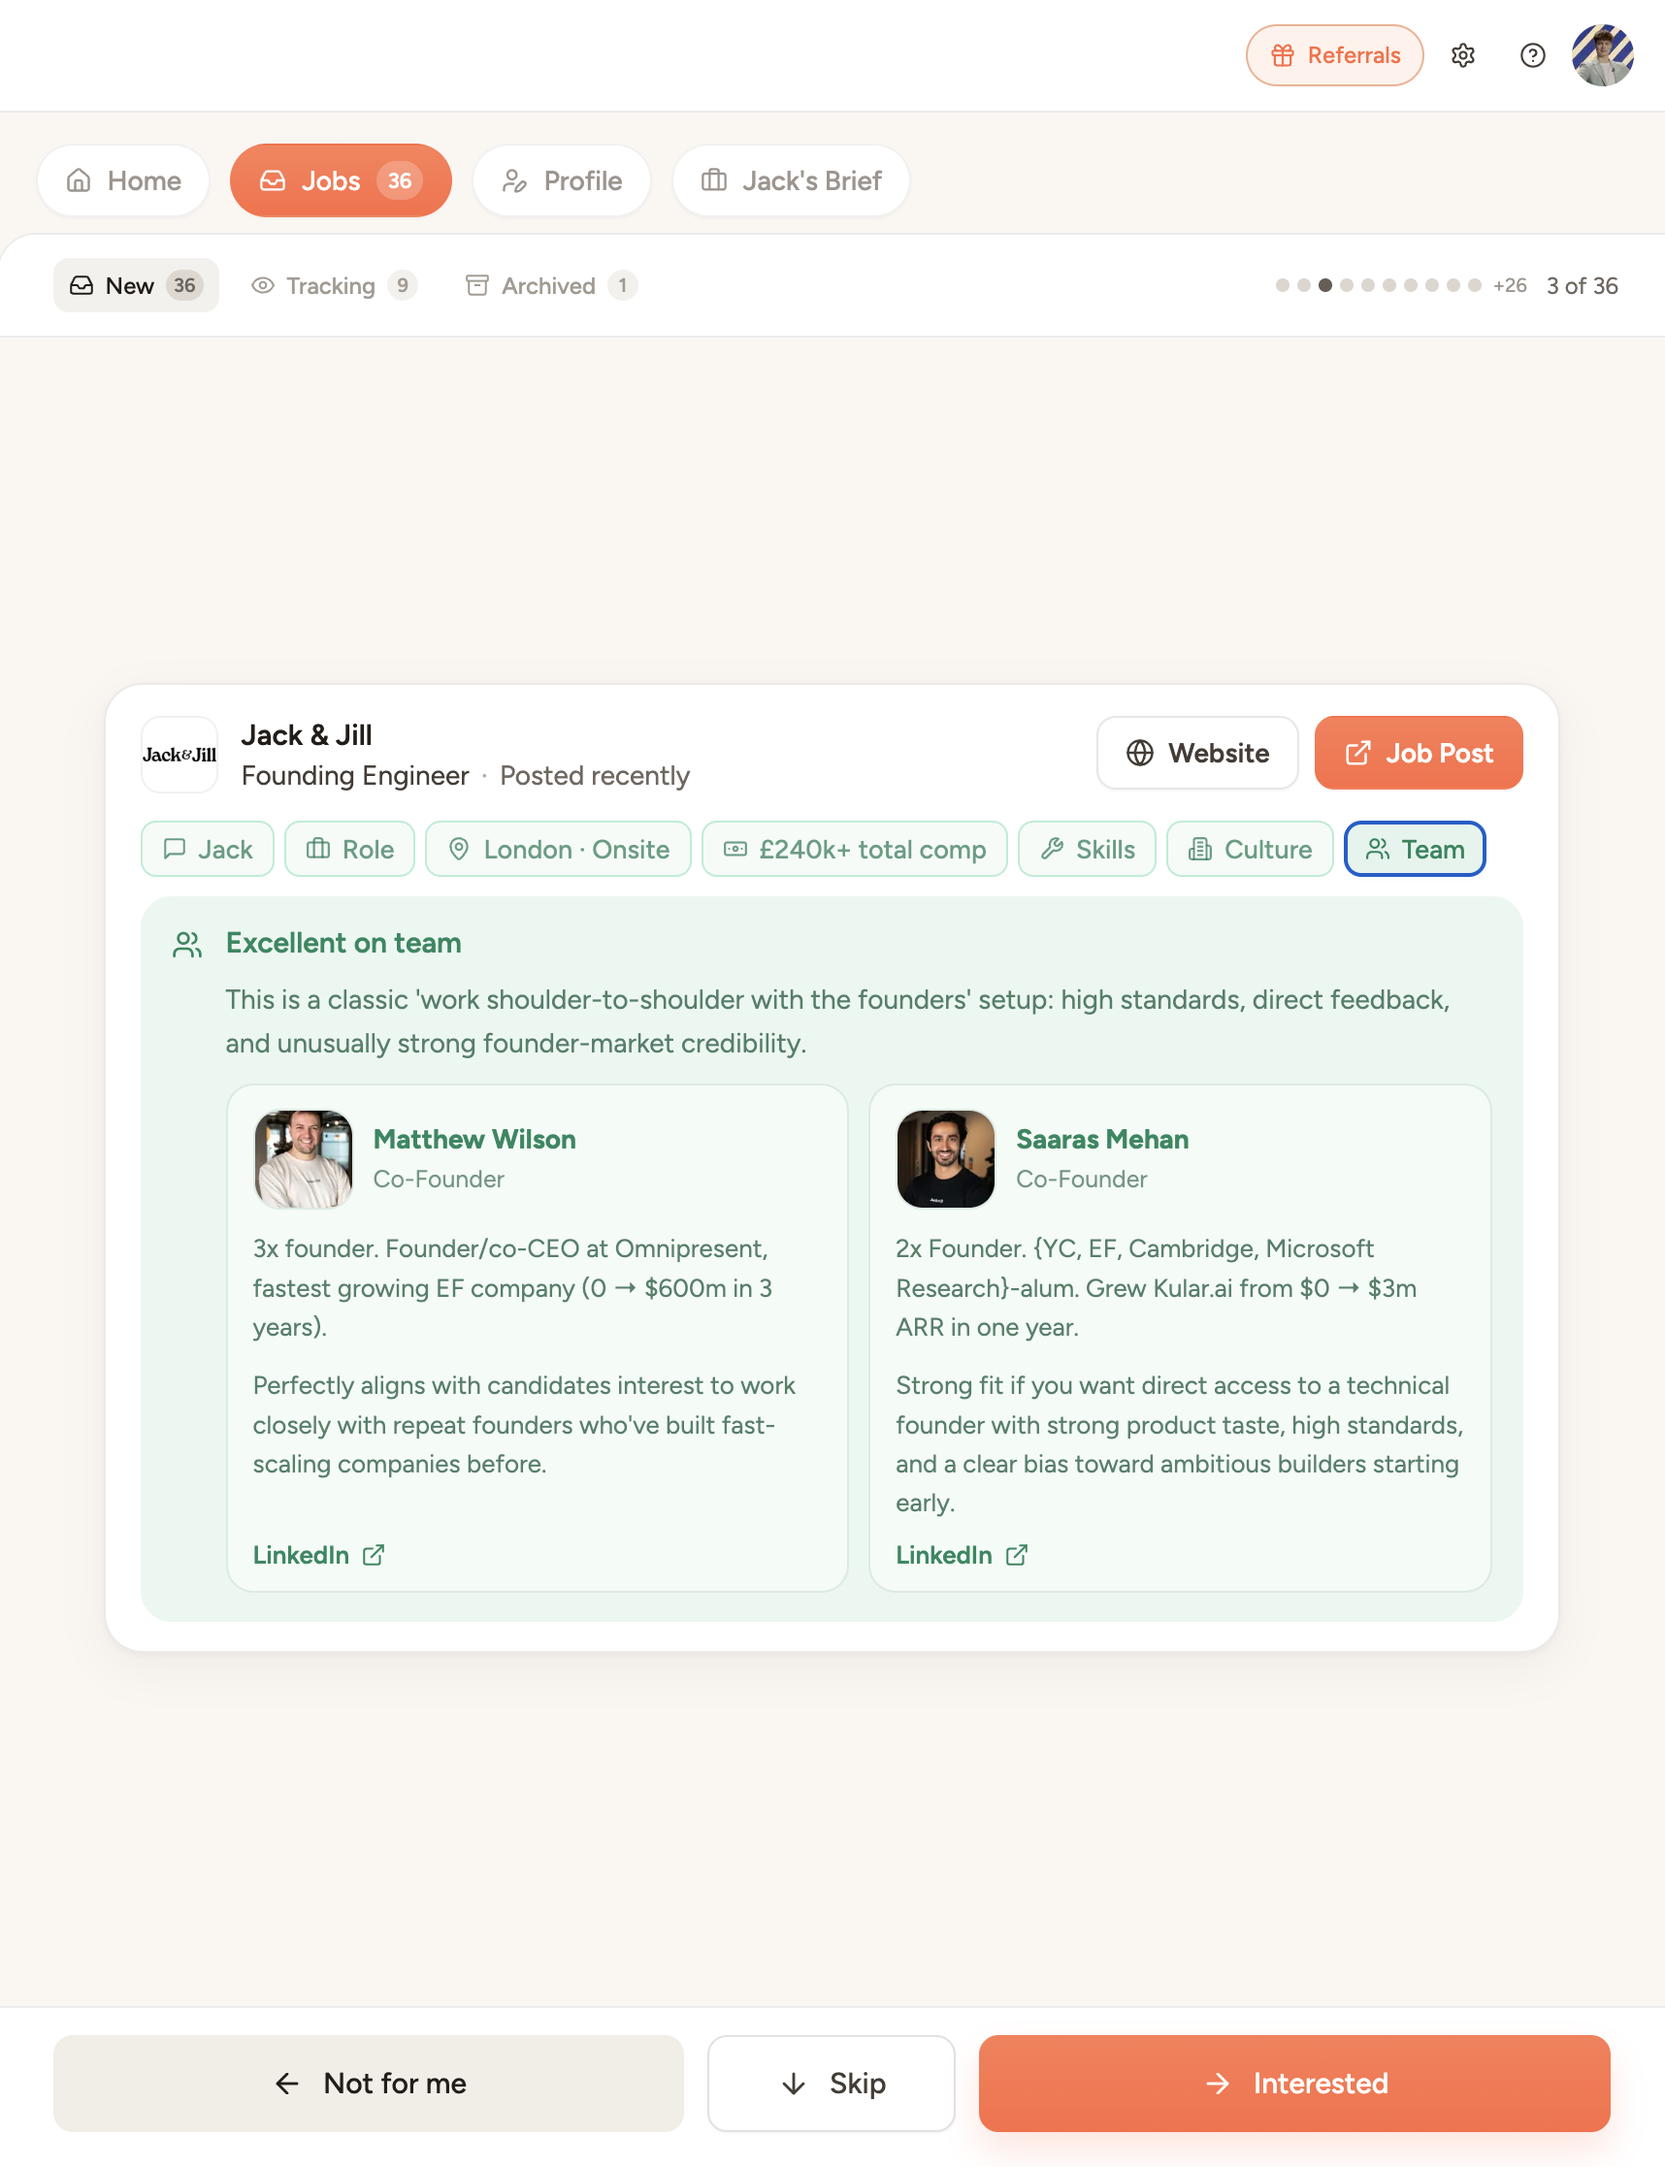
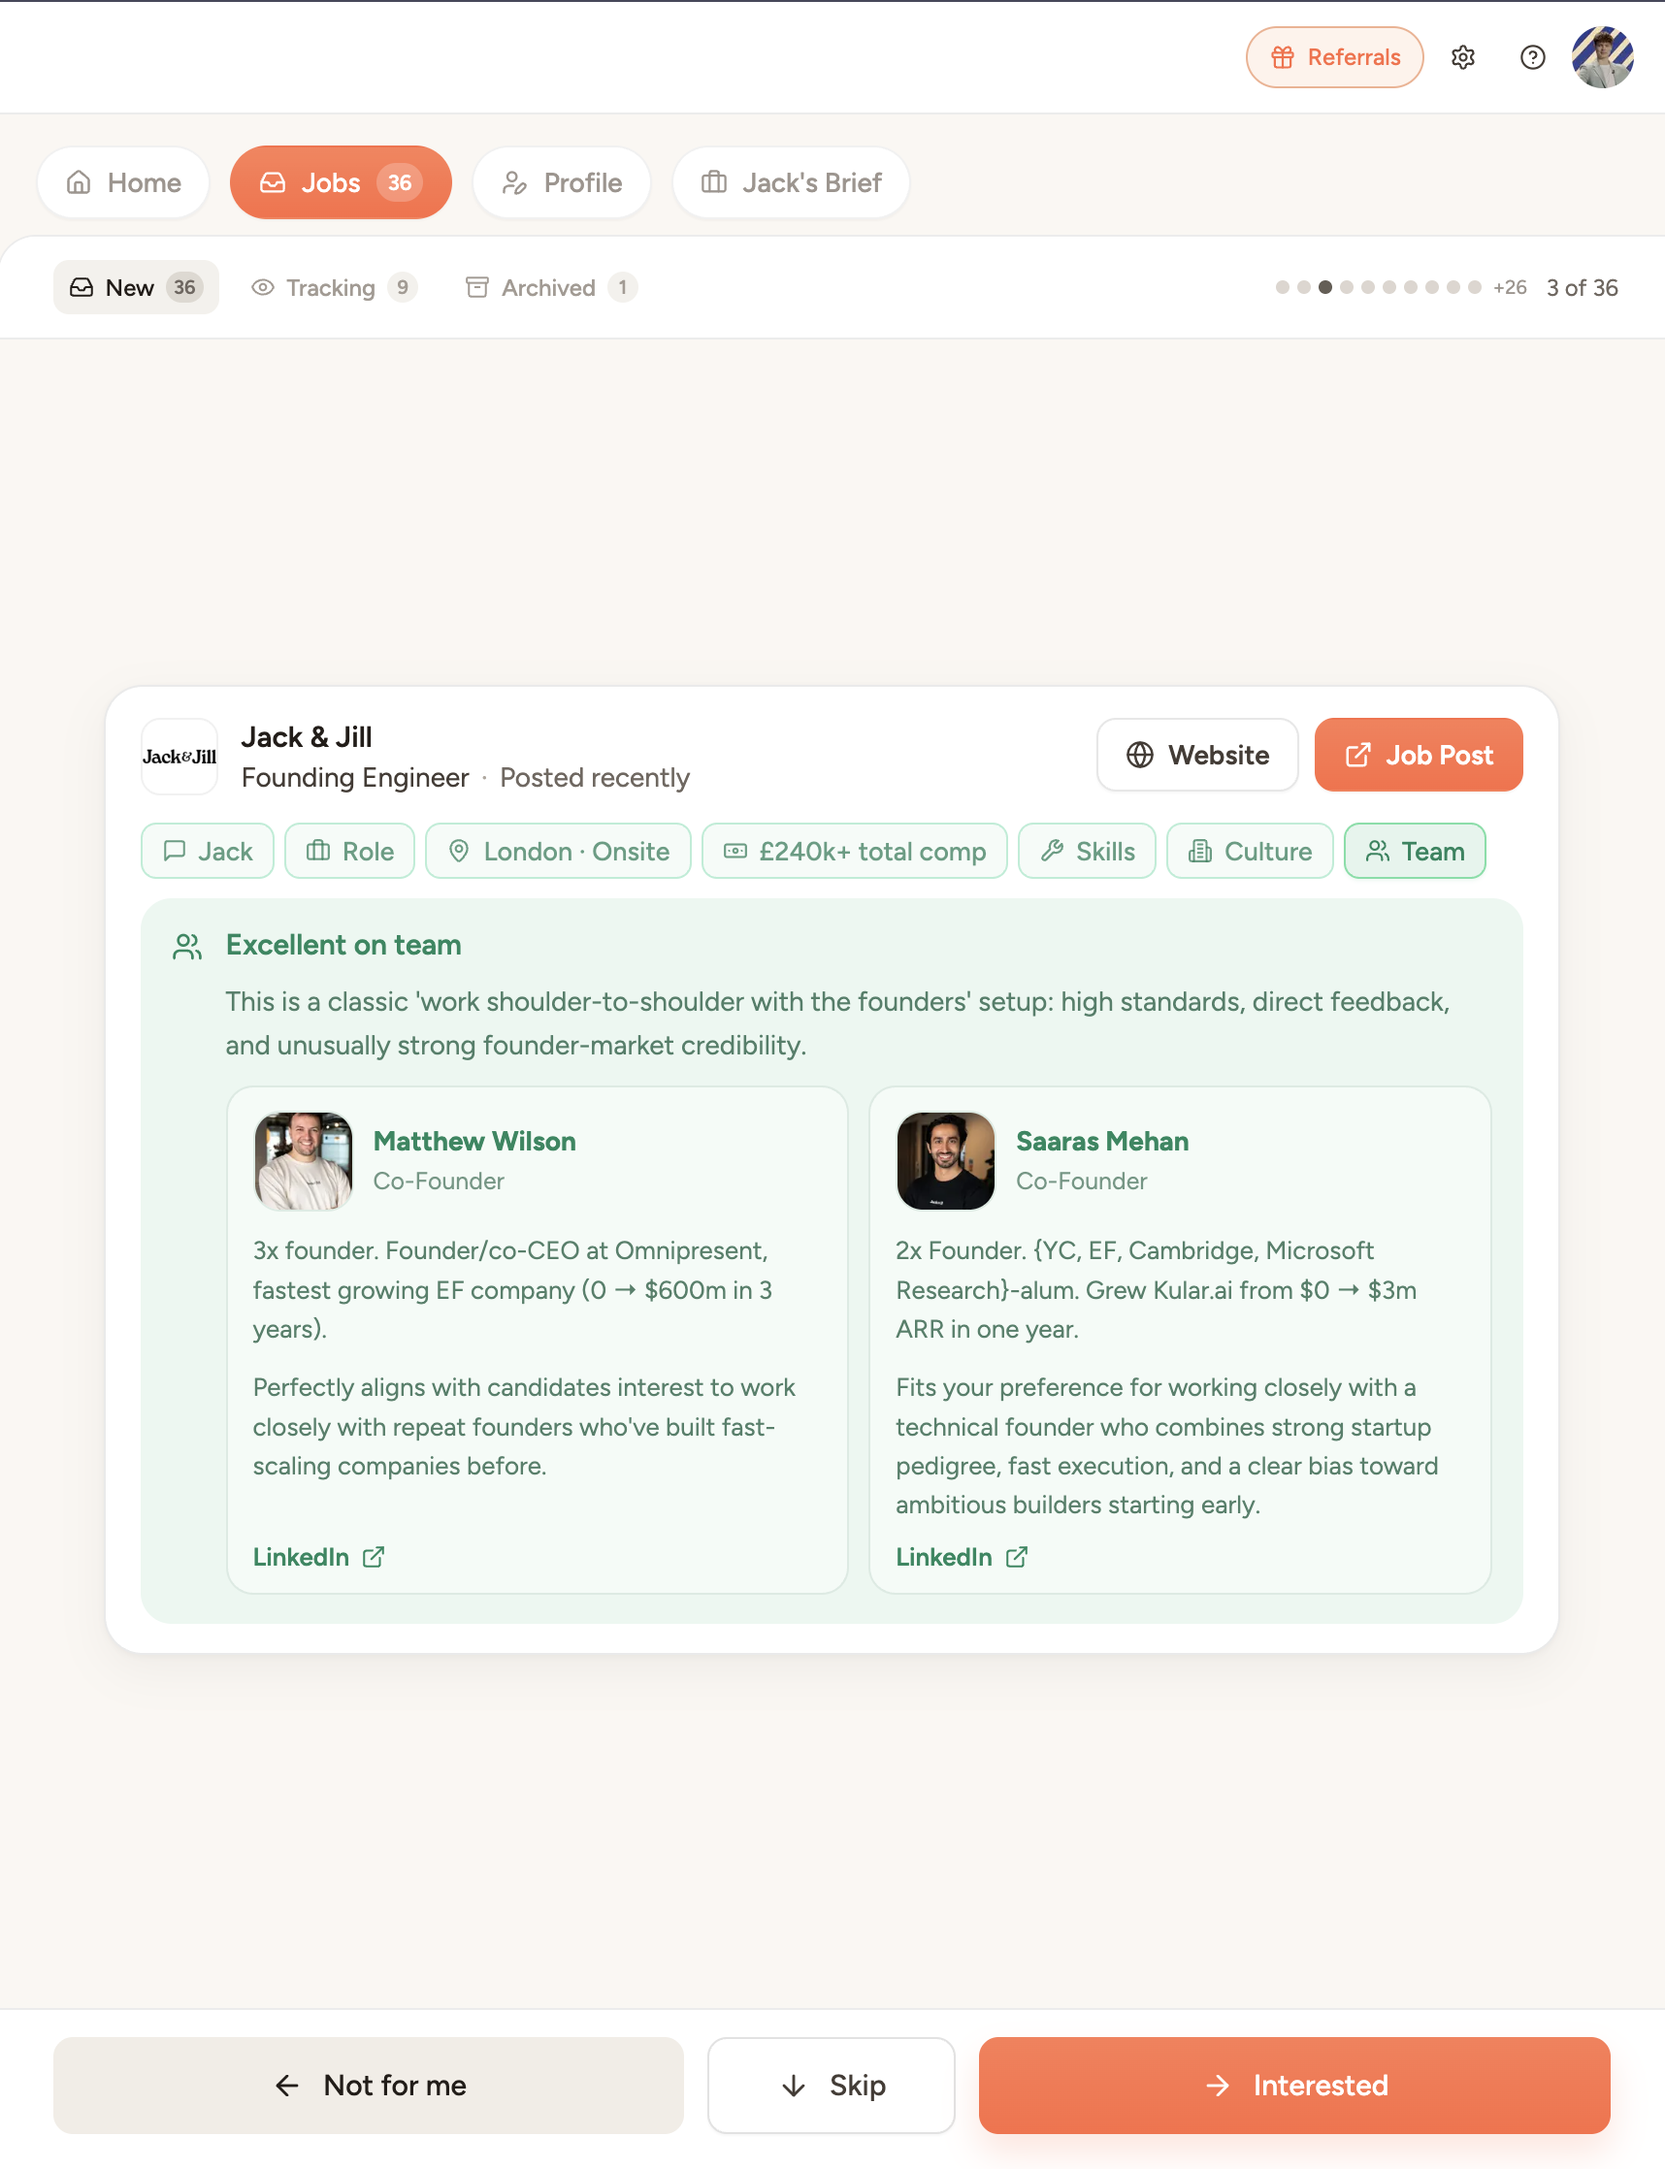
Update copy and README image

diff --git a/components/dashboard-replica.tsx b/components/dashboard-replica.tsx
@@ -425,7 +425,7 @@ const jobOpportunities: JobOpportunity[] = [
               credibility:
                 "2x Founder. {YC, EF, Cambridge, Microsoft Research}-alum. Grew Kular.ai from $0 → $3m ARR in one year.",
               fitAngle:
-                "Strong fit if you want direct access to a technical founder with strong product taste, high standards, and a clear bias toward ambitious builders starting early.",
+                "Fits your preference for working closely with a technical founder who combines strong startup pedigree, fast execution, and a clear bias toward ambitious builders starting early.",
               linkedinHref: "https://www.linkedin.com/in/saaras-mehan/"
             }
           ]
